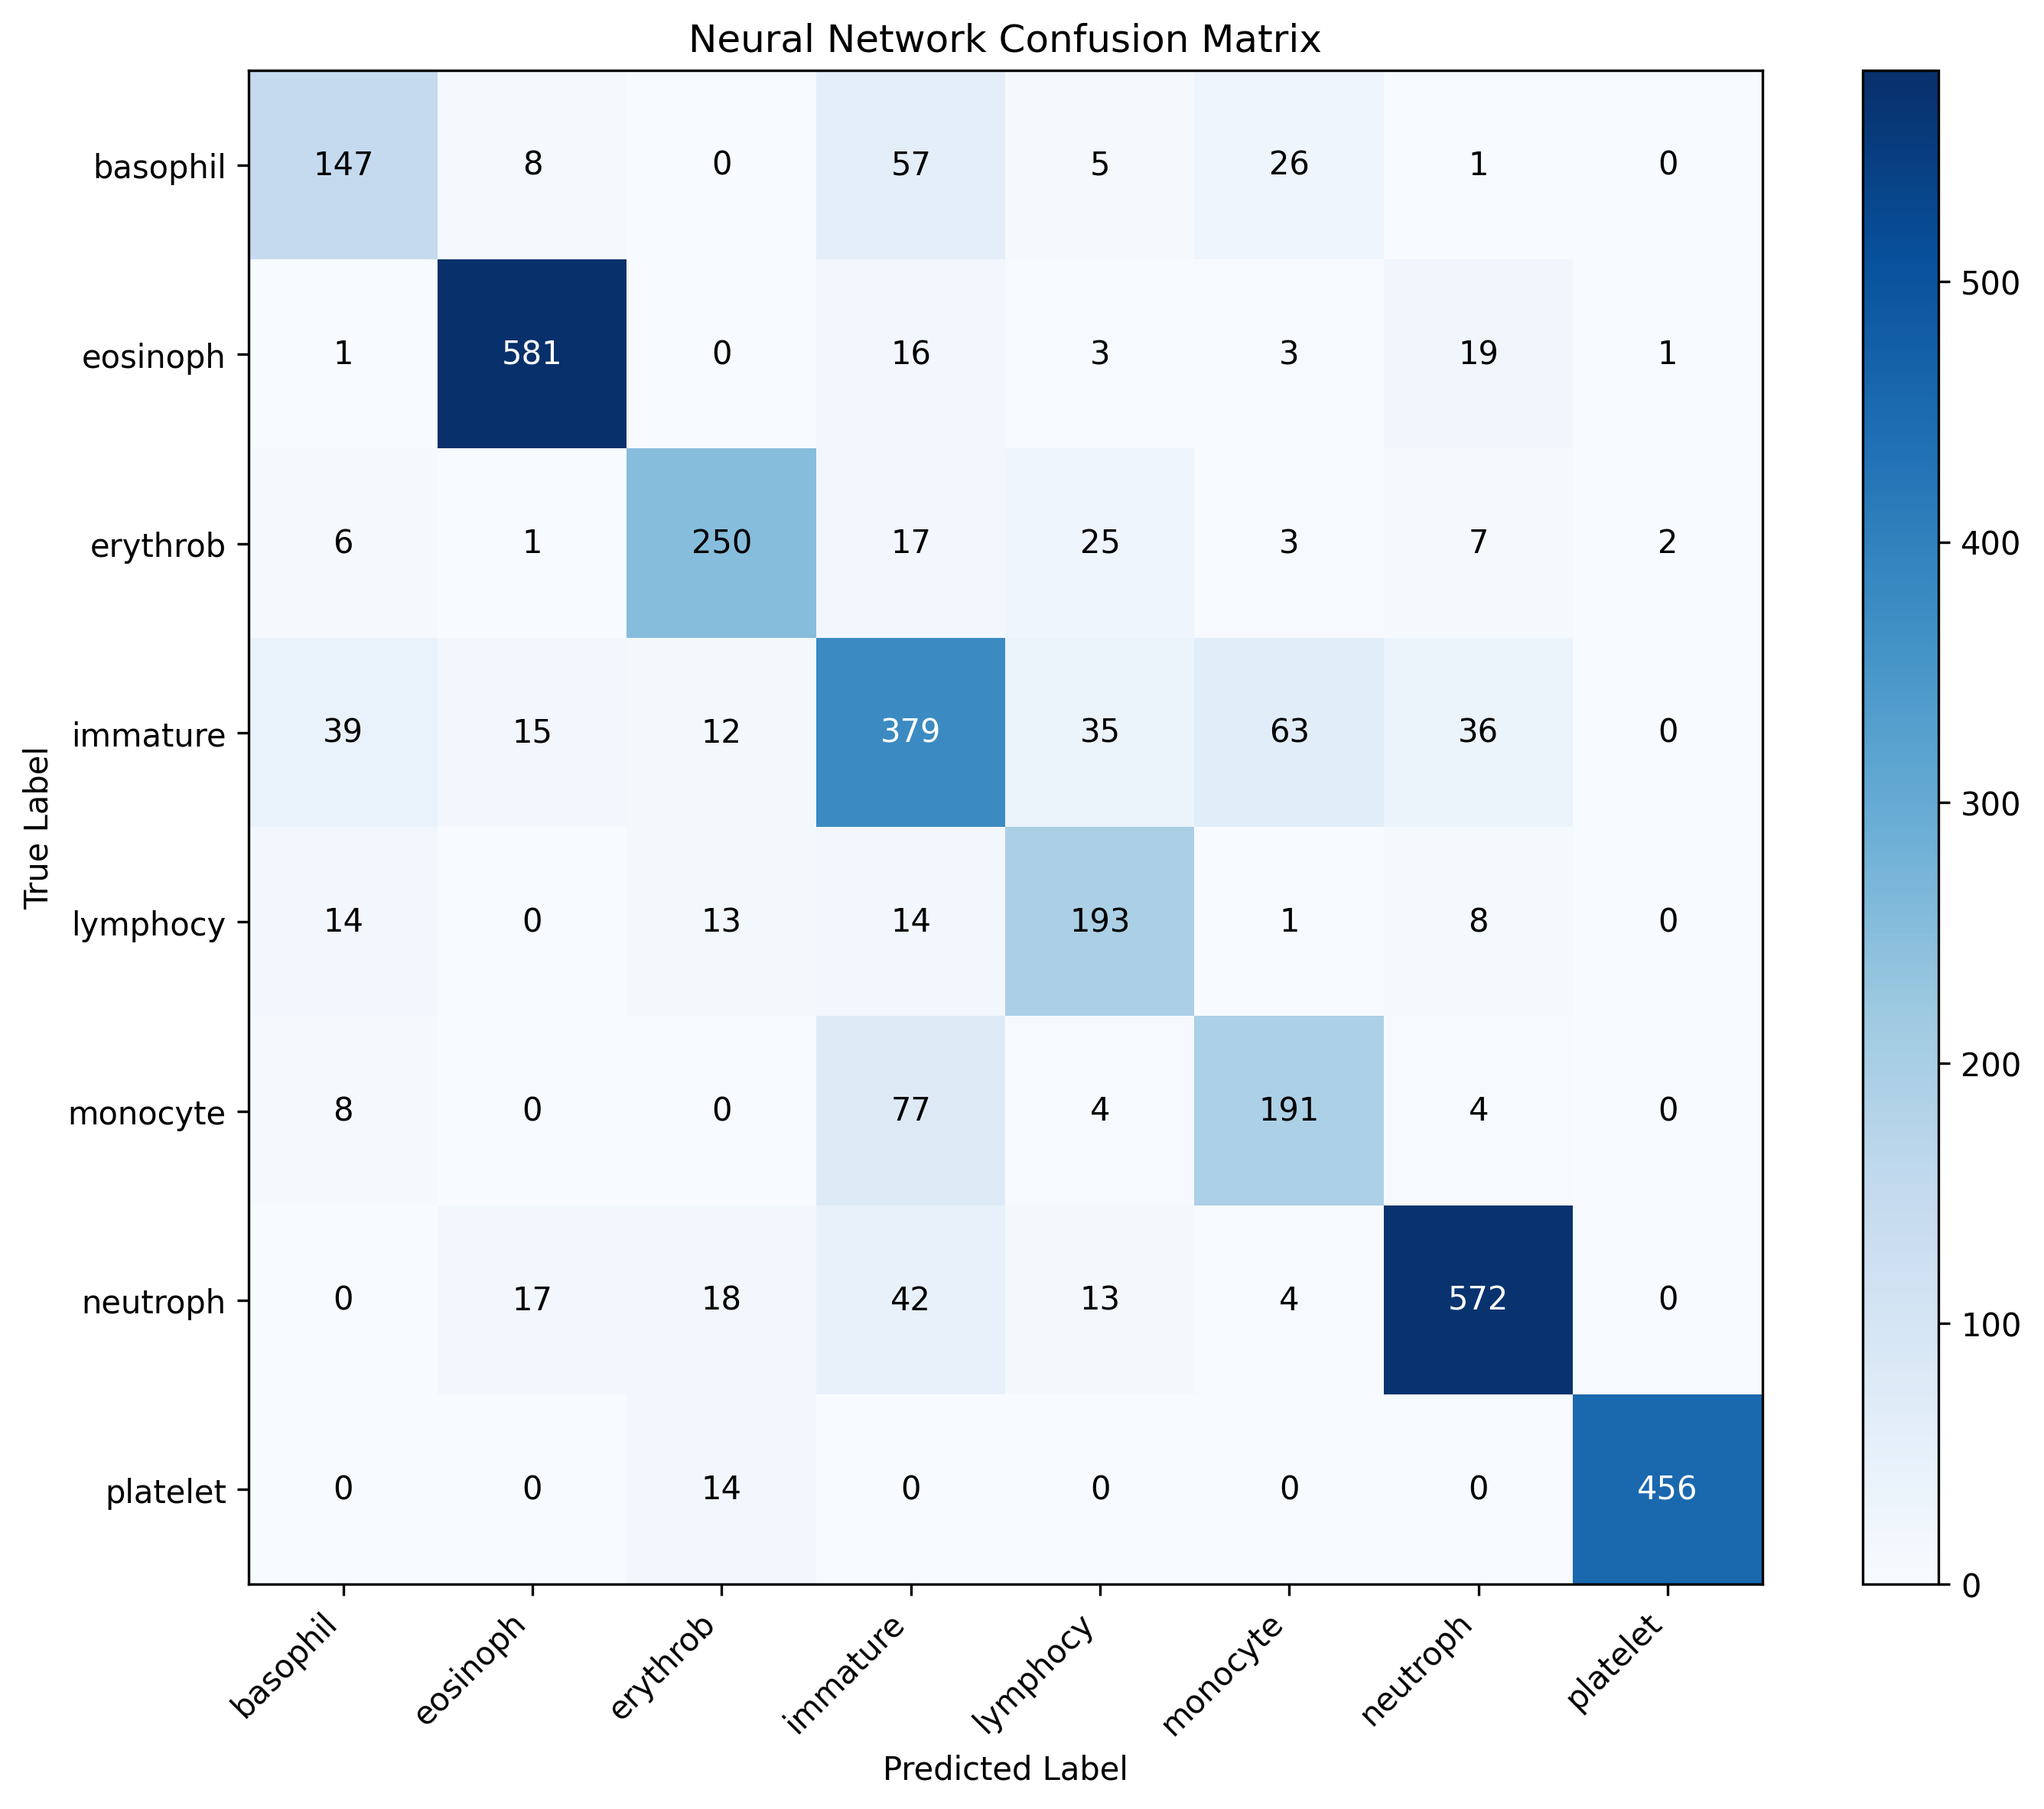
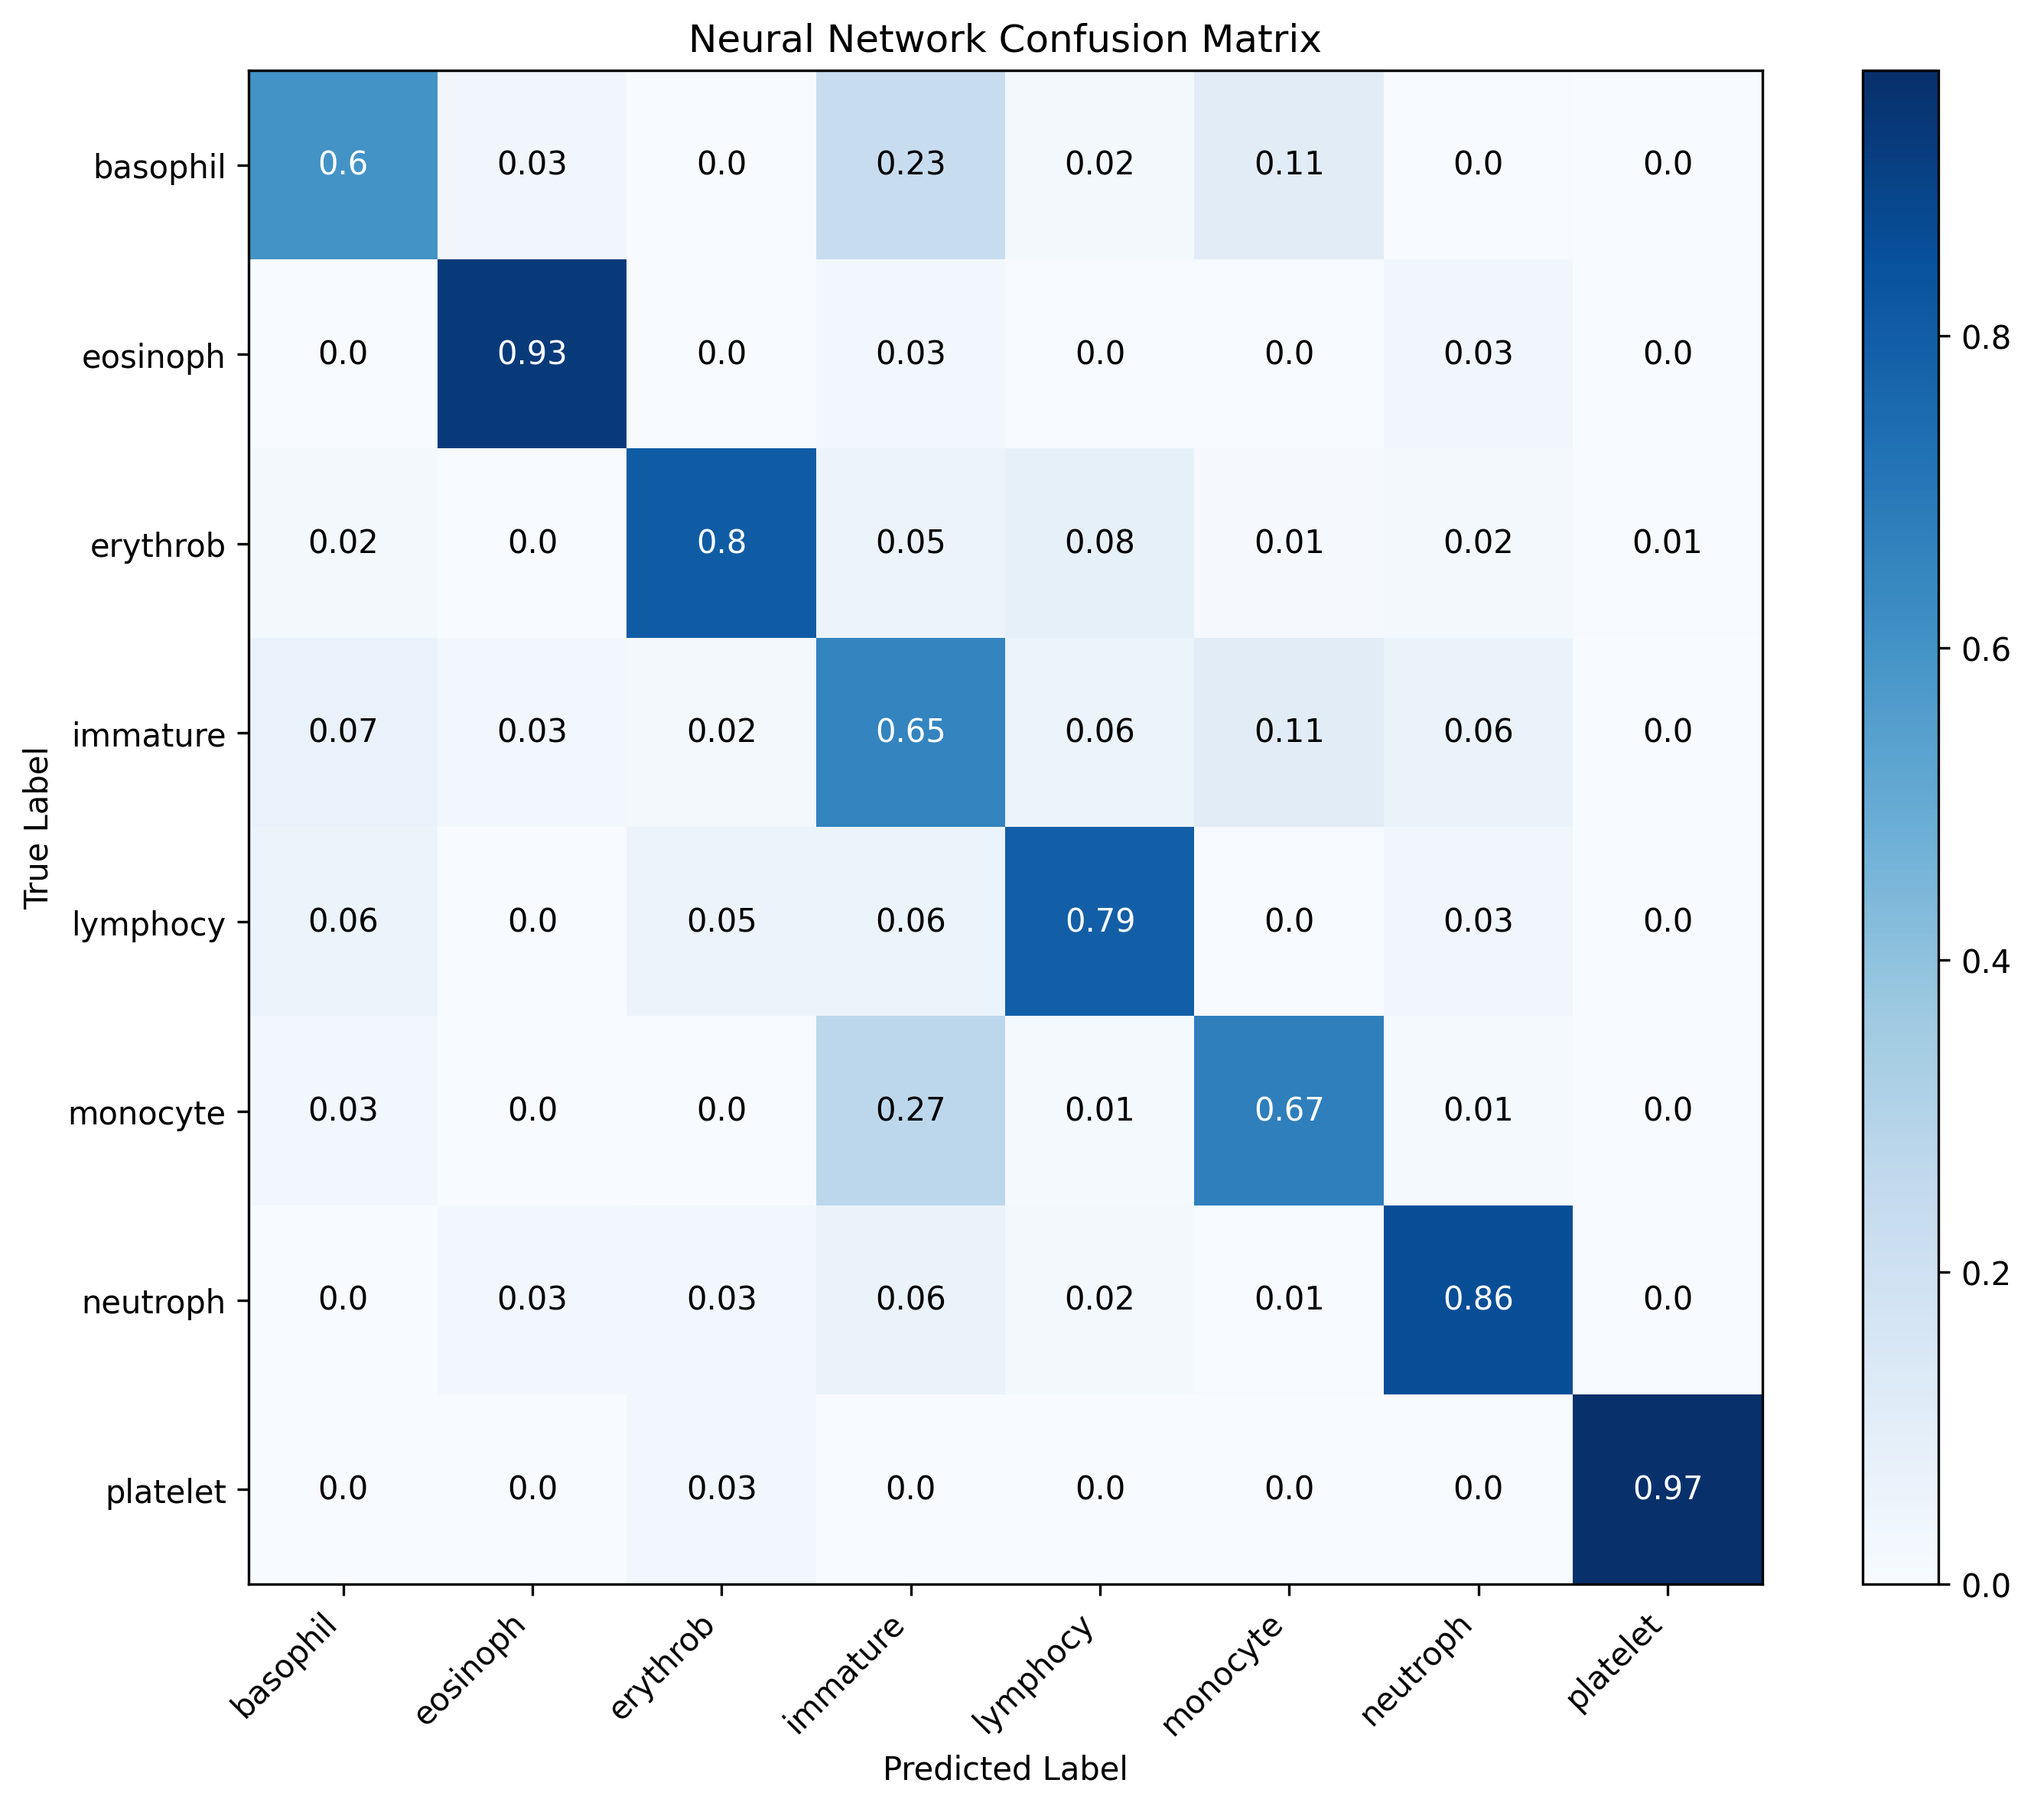
Re-adding normalization for Confusion Matrices

diff --git a/src/plot.py b/src/plot.py
@@ -126,7 +126,7 @@ def plot_training_curves(hist, title, filename):
 
 
 def plot_confusion_matrix(y_true, y_pred, title, filename):
-    cm = confusion_matrix(y_true, y_pred)
+    cm = confusion_matrix(y_true, y_pred, normalize='true')
     plt.figure(figsize=(10, 8))
     plt.imshow(cm, cmap='Blues')
     plt.title(title)
@@ -139,7 +139,7 @@ def plot_confusion_matrix(y_true, y_pred, title, filename):
     # Add text annotations
     for i in range(len(class_names)):
         for j in range(len(class_names)):
-            plt.text(j, i, str(cm[i, j]), ha='center', va='center',
+            plt.text(j, i, str(round(cm[i, j], 2)), ha='center', va='center',
                      color='white' if cm[i, j] > cm.max() / 2 else 'black')
 
     plt.xlabel('Predicted Label')
